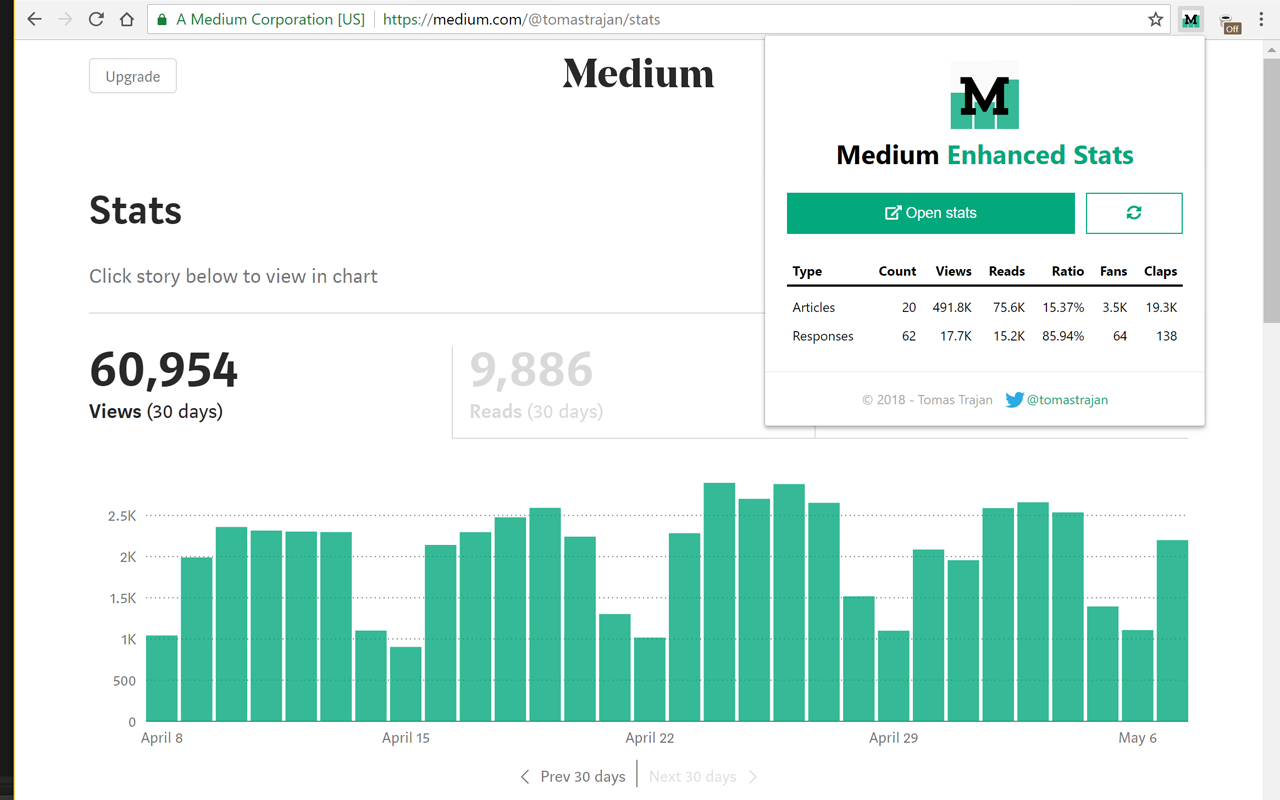
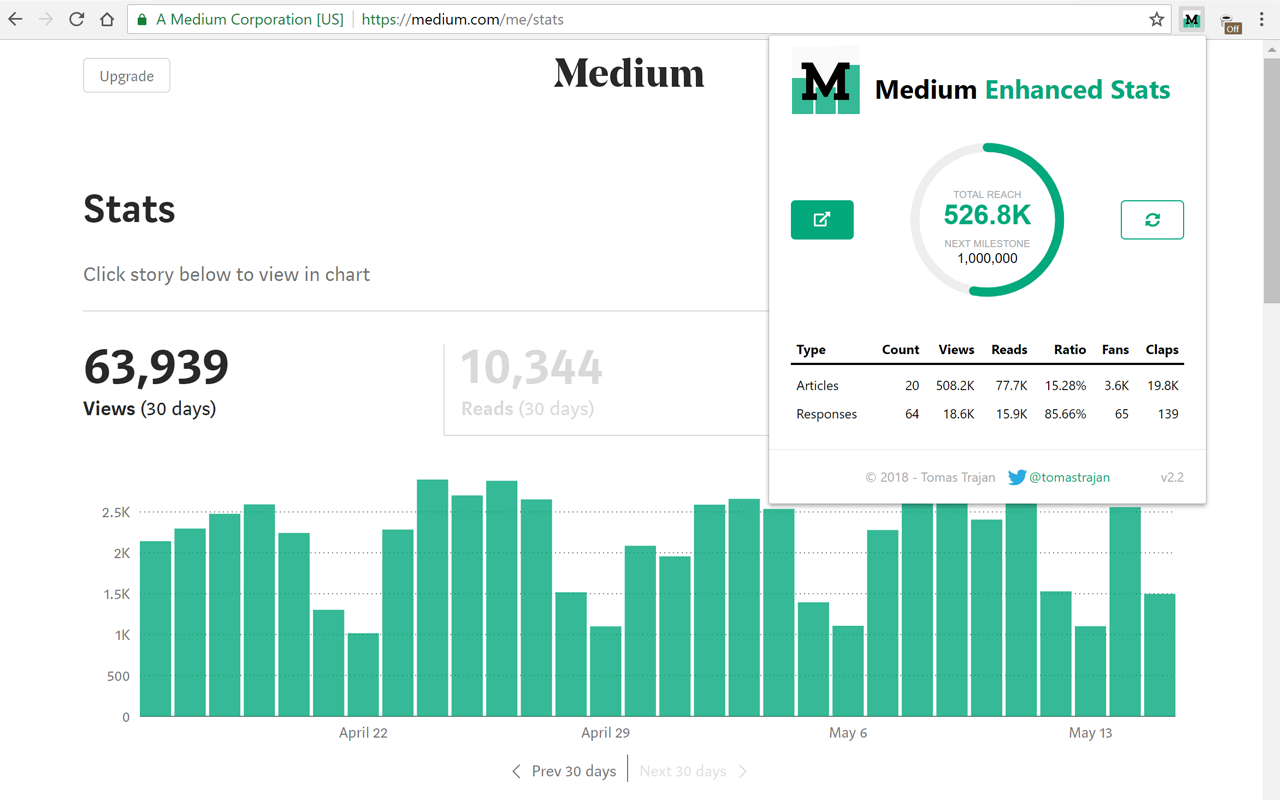
feat(popup): add reach indicator

diff --git a/src/popup/popup.css b/src/popup/popup.css
@@ -1,6 +1,7 @@
 :root {
+    --color-text: #000;
     --color-white: #fff;
-    --color-border: #eee;
+    --color-grey-lighter: #eee;
     --color-grey: #aaa;
     --color-brand: #03a87c;
     --color-brand-darker: #019b72;
@@ -12,6 +13,7 @@ html {
 }
 
 body {
+    color: var(--color-text);
     width: 400px;
     padding: 0;
     margin: 0;
@@ -23,7 +25,9 @@ section {
 }
 
 h1 {
-    margin: 0 0 20px 0;
+    position: relative;
+    margin: 10px 0 20px 0;
+    padding: 0 0 0 64px;
     font-size: 24px;
     text-align: center;
 }
@@ -34,8 +38,10 @@ h1 span {
 
 h1 img {
     height: 64px;
-    display: block;
-    margin: 0 auto 5px auto;
+    display: inline-block;
+    position: absolute;
+    top: -23px;
+    left: 0;
 }
 
 a {
@@ -49,19 +55,22 @@ a:hover {
 
 .actions {
     display: flex;
+    align-items: center;
     margin: 0 0 20px 0;
 }
 
 .actions .open-stats {
-    flex: 3 1 auto;
+    flex: 1 1 auto;
     margin: 0 10px 0 0;
 }
 
 .actions .refresh-stats {
     flex: 1 1 auto;
+    margin: 0 0 0 10px;
 }
 
 button {
+    height: 36px;
     border: 0;
     padding: 10px;
     color: var(--color-white);
@@ -98,11 +107,87 @@ button.outline:hover {
     transform: rotate(1080deg);
 }
 
-.spinner {
+.chart {
+    flex: 10 1 auto;
+    margin: 10px auto;
+    max-width: 80%;
+    max-height: 150px;
+}
+
+.chart .circle-bg {
+    fill: none;
+    stroke: var(--color-grey-lighter);
+    stroke-width: 2;
+}
+
+.chart .circle {
+    fill: none;
+    stroke-width: 2;
+    stroke-linecap: round;
+}
+
+.chart .progress {
+    stroke: var(--color-brand);
+    animation: chart-progress 1.5s ease-in-out forwards;
+}
+
+.chart .spinner {
     display: none;
-    text-align: center;
-    margin: 0 0 20px 0;
-    color:  var(--color-grey);
+    stroke: var(--color-grey);
+    stroke-dasharray: 1, 200;
+    stroke-dashoffset: 0;
+    transform-origin: center;
+    animation: chart-spinner 3s ease-in-out infinite, chart-spinner-rotate 2.5s linear infinite;
+}
+
+@keyframes chart-spinner-rotate {
+    100% {
+        transform: rotate(360deg);
+
+    }
+}
+
+@keyframes chart-spinner {
+    0% {
+        stroke-dasharray: 1, 200;
+        stroke-dashoffset: 0;
+    }
+    50% {
+        stroke-dasharray: 89, 200;
+        stroke-dashoffset: -35px;
+    }
+    100% {
+        stroke-dasharray: 89, 200;
+        stroke-dashoffset: -124px;
+    }
+}
+
+@keyframes chart-progress {
+    0% {
+        stroke-dasharray: 0, 100;
+    }
+}
+
+.chart .label {
+    fill: var(--color-grey);
+    font-family: sans-serif;
+    font-size: 0.18em;
+    text-anchor: middle;
+}
+
+.chart .reach {
+    fill: var(--color-brand);
+    font-family: sans-serif;
+    font-size: 0.5em;
+    font-weight: bold;
+    text-anchor: middle;
+}
+
+.chart .milestone {
+    fill: var(--color-text);
+    font-family: sans-serif;
+    font-size: 0.25em;
+    text-anchor: middle;
 }
 
 table {
@@ -131,7 +216,7 @@ table th {
 }
 
 footer {
-    border-top: 1px solid var(--color-border);
+    border-top: 1px solid var(--color-grey-lighter);
     text-align: center;
     padding: 5px 0 15px 0;
     color:  var(--color-grey);
@@ -151,10 +236,12 @@ footer .version {
     top:16px;
 }
 
-.loading .spinner {
-    display: block;
+.loading table,
+.loading .chart-label,
+.loading .chart .progress {
+    display: none;
 }
 
-.loading table {
-    display: none;
+.loading .chart .spinner {
+    display: block;
 }

diff --git a/src/popup/popup.js b/src/popup/popup.js
@@ -2,6 +2,9 @@ const $body = document.querySelector('body');
 const $table = document.querySelector('table');
 const $year = document.querySelector('.year');
 const $version = document.querySelector('.version');
+const $chartProgress = document.querySelector('.chart .progress');
+const $chartReach = document.querySelector('.chart .reach');
+const $chartMilestone = document.querySelector('.chart .milestone');
 const $buttonOpenStats = document.querySelector('.open-stats');
 const $buttonRefreshStats = document.querySelector('.refresh-stats');
 
@@ -16,9 +19,11 @@ init();
 
 function init() {
   $body.classList.add('loading');
+  $chartProgress.setAttribute('stroke-dasharray', `0 100`);
   chrome.runtime.sendMessage({ type: 'GET_TOTALS'}, {}, data => {
     updateStatsTable('articles', data.articles);
     updateStatsTable('responses', data.responses);
+    updateChart(data);
     $body.classList.remove('loading');
   });
 }
@@ -35,12 +40,31 @@ function updateStatsTable(type,totals) {
   $cols[6].textContent = formatValue(claps);
 }
 
-function formatValue(number) {
-  return number > 1000
-    ? (number / 1000).toFixed(1) + 'K'
-    : number.toFixed(0);
+function updateChart(data) {
+  const { articles, responses } = data;
+  const reach = articles.views + responses.views;
+  const milestone = '1'.padEnd(reach.toString().length + 1, '0');
+  const progress = ((reach / milestone) * 100).toFixed(0);
+  $chartProgress.setAttribute('stroke-dasharray', `${progress} 100`);
+  $chartReach.textContent = formatValue(reach);
+  $chartMilestone.textContent = formatWholeNumber(milestone);
 }
+
+function formatValue(number) {
+  return number >= 1000000
+    ? (number / 1000000).toFixed(1) + 'M'
+    :  number >= 1000
+        ? (number / 1000).toFixed(1) + 'K'
+        : number.toFixed(0);
+}
+
+function formatWholeNumber(number) {
+  return number.toString().replace(/\B(?=(\d{3})+(?!\d))/g, ",");
+}
+
 
 function openStatsPage() {
   chrome.tabs.create({ url: 'https://medium.com/me/stats' });
 }
+
+// 100 1000 10000 100000 1000000 10000000

diff --git a/src/popup/popup.html b/src/popup/popup.html
@@ -11,15 +11,34 @@
                 Medium <span>Enhanced Stats</span>
             </h1>
             <div class="actions">
-                <button class="open-stats">
-                    <i class="fas fa-external-link-alt"></i> Open stats
+                <button class="open-stats" title="Open Medium stats">
+                    <i class="fas fa-external-link-alt"></i>
                 </button>
-                <button class="outline refresh-stats">
+                <svg viewbox="0 0 36 36" class="chart">
+                    <path class="circle-bg"
+                          d="M18 2.0845
+          a 15.9155 15.9155 0 0 1 0 31.831
+          a 15.9155 15.9155 0 0 1 0 -31.831"
+                    />
+                    <path class="circle progress"
+                          stroke-dasharray="100, 100"
+                          d="M18 2.0845
+          a 15.9155 15.9155 0 0 1 0 31.831
+          a 15.9155 15.9155 0 0 1 0 -31.831"
+                    /><path class="circle spinner"
+                          stroke-dasharray="100, 100"
+                          d="M18 2.0845
+          a 15.9155 15.9155 0 0 1 0 31.831
+          a 15.9155 15.9155 0 0 1 0 -31.831"
+                    />
+                    <text x="18" y="13.25" class="chart-label label">TOTAL REACH</text>
+                    <text x="18" y="19" class="chart-label reach"></text>
+                    <text x="18" y="24" class="chart-label label">NEXT MILESTONE</text>
+                    <text x="18" y="27.5" class="chart-label milestone"></text>
+                </svg>
+                <button class="outline refresh-stats" title="Refresh stats">
                     <i class="fas fa-sync-alt"></i>
                 </button>
-            </div>
-            <div class="spinner">
-                <i class="fas fa-3x fa-spinner fa-pulse"></i>
             </div>
             <table>
                 <tr>

diff --git a/src/stats/stats-total.js b/src/stats/stats-total.js
@@ -30,23 +30,25 @@ function updateTable(totals) {
   tfoot.innerHTML = `
       <tr>
         <td title="Items count" class="articles-count">${formatValue(items)}</td>
-        <td title="${formatTitle(views)}">
+        <td title="${formatWholeNumber(views)}">
           ${formatValue(views)}
           ${syndicatedViews ? `<span>+${formatValue(syndicatedViews)}</span>` : ''}
         </td>
-        <td title="${formatTitle(reads)}">${formatValue(reads)}</td>
+        <td title="${formatWholeNumber(reads)}">${formatValue(reads)}</td>
         <td title="Weighted average">${ratio}%</td>
-        <td title="${formatTitle(fans)}">${formatValue(fans)}</td>
+        <td title="${formatWholeNumber(fans)}">${formatValue(fans)}</td>
       </tr>
     `;
 }
 
 function formatValue(number) {
-  return number > 1000
-    ? (number / 1000).toFixed(1) + 'K'
-    : number;
+  return number >= 1000000
+    ? (number / 1000000).toFixed(1) + 'M'
+    :  number >= 1000
+      ? (number / 1000).toFixed(1) + 'K'
+      : number.toFixed(0);
 }
 
-function formatTitle(number) {
+function formatWholeNumber(number) {
   return number.toString().replace(/\B(?=(\d{3})+(?!\d))/g, ",");
 }
